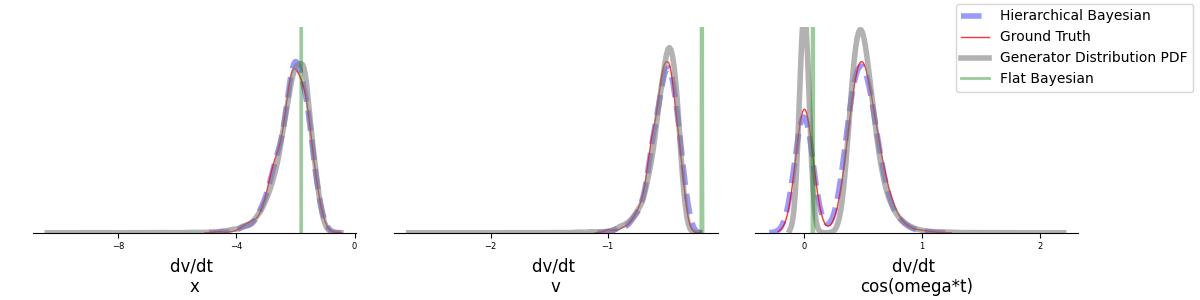
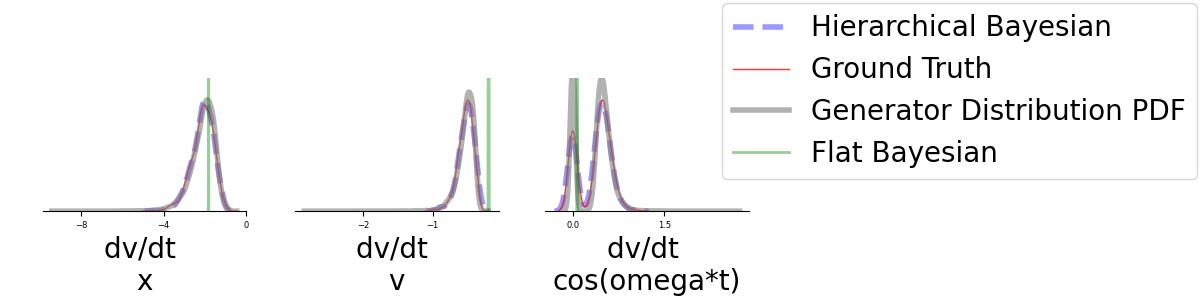
custom plot update

diff --git a/src/custom_plot.py b/src/custom_plot.py
@@ -243,10 +243,10 @@ def Custom_plot(generate_pdf, ground_truth = True, HB_Est = True, FlatB_Est = Tr
         axi.spines['left'].set_visible(False)
         axi.spines['top'].set_visible(False)
         axi.spines['right'].set_visible(False)
-        if col==n_cols-1 and row_plot_idx==0:
-            axi.legend(loc='center left', bbox_to_anchor=(.6, 0.9))
-        if legend_True:
-            axi.legend(loc='upper center', bbox_to_anchor=(0.5, 1.03), ncol=1, fancybox=True, shadow=True, fontsize=8)
+        # if col==n_cols-1 and row_plot_idx==0:
+        #     axi.legend(loc='center left', bbox_to_anchor=(.8, 0.9), fontsize=xlabel_fontsize)
+        # if legend_True:
+        #     axi.legend(loc='upper center', bbox_to_anchor=(0.5, 1.03), ncol=1, fancybox=True, shadow=True, fontsize=8)
 
         plot_counter += 1
 

diff --git a/examples/Lotka_Volterra/custom_plot.py b/examples/Lotka_Volterra/custom_plot.py
@@ -10,11 +10,11 @@ save_dir_prefix = "LV_chk_"
 to_plot = [[0,1],[0,3],[1,2],[1,3]]
 
 plot_dict = {"est_color": "blue", "gt_color": "red", "flat_color":"green","pdf_color":"grey",
-             "legend": None, "xlabel_fontsize": 12, "title_fontsize": None,
+             "legend": None, "xlabel_fontsize": 26, "title_fontsize": None,
              "max_y_limit": 40.3,"save_name":"custom_with_pdf","pdf_fill":False}
 
 Custom_plot(generate_pdf, pdf_state=True, ground_truth = True, HB_Est = True, FlatB_Est = True,TABLE = False,
             gt_utils=gt_utils, realparame2gtarray=realparame2gtarray, save_dir_prefix=save_dir_prefix,
-           fighigth=8, figwidth=12, n_rows=2, n_cols=2,
+           fighigth=4, figwidth=12, n_rows=1, n_cols=4,
            scaler="scale", to_plot=to_plot, plot_dict=plot_dict)
 

diff --git a/examples/Damped_Forced_Harmonic_Oscillator/custom_plot.py b/examples/Damped_Forced_Harmonic_Oscillator/custom_plot.py
@@ -9,7 +9,7 @@ save_dir_prefix = "DFHO_chk_"
 
 to_plot = [[1,1],[1,2],[1,3]]
 plot_dict = {"est_color": "blue", "gt_color": "red", "flat_color":"green","pdf_color":"grey",
-             "legend": None, "xlabel_fontsize": 12, "title_fontsize": None,
+             "legend": None, "xlabel_fontsize": 20, "title_fontsize": None,
              "max_y_limit": 40.3,"save_name":"custom_with_pdf","pdf_fill":False}
 
 Custom_plot(generate_pdf, pdf_state=True, ground_truth = True, HB_Est = True, FlatB_Est = True,TABLE = False,

diff --git a/examples/Fitz_Hugh_Nagumo/custom_plot.py b/examples/Fitz_Hugh_Nagumo/custom_plot.py
@@ -10,7 +10,7 @@ save_dir_prefix = "FHN_chk_"
 to_plot = [[1,0],[1,1]]
 
 plot_dict = {"est_color": "blue", "gt_color": "red", "flat_color":"green","pdf_color":"grey",
-             "legend": None, "xlabel_fontsize": 12, "title_fontsize": None,
+             "legend": None, "xlabel_fontsize": 23, "title_fontsize": None,
              "max_y_limit": 40.3,"save_name":"custom_with_pdf","pdf_fill":False}
 
 Custom_plot(generate_pdf, pdf_state=True, ground_truth = True, HB_Est = True, FlatB_Est = True,TABLE = False,

diff --git a/examples/Cognetive_RL/custom_plot.py b/examples/Cognetive_RL/custom_plot.py
@@ -9,7 +9,7 @@ save_dir_prefix = "CRL_chk_"
 to_plot = [[0,1],[0,2]]
 
 plot_dict = {"est_color": "blue", "gt_color": "red", "flat_color":"green","pdf_color":"grey",
-             "legend": None, "xlabel_fontsize": 12, "title_fontsize": None,
+             "legend": None, "xlabel_fontsize": 23, "title_fontsize": None,
              "max_y_limit": 40.3,"save_name":"custom_with_pdf","pdf_fill":False}
 
 Custom_plot(generate_pdf, pdf_state=True, ground_truth = True, HB_Est = True, FlatB_Est = True,TABLE = False,
